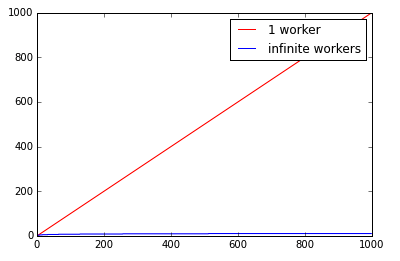
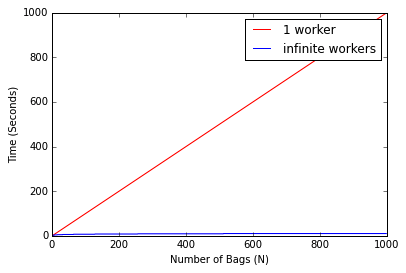
finalizing these files.

Changed region(s): [[0.0, 0.0307, 0.99, 0.9808], [0.24, 0.7356, 0.27, 0.7663]]

diff --git a/HW0/P5/P5.py b/HW0/P5/P5.py
@@ -20,14 +20,12 @@ def infTime(N,t): #wrote a recursive formula to calculate number of seconds it w
     elif N % 2 == 0:
         N = N / 2.0
         t += 1 
-        print "elif"
         return infTime(N,t)
     else:
         N = N-1
         N = N / 2.0
         N += 1
         t += 1
-        print "else"
         return infTime(N,t)
 
         
@@ -42,5 +40,47 @@ for N in num_bags:
 
 plt.plot(num_bags,single_worker,'r-',label='1 worker')
 plt.plot(num_bags,infinite_workers,'b-',label='infinite workers')
+plt.xlabel('Number of Bags (N)')
+plt.ylabel('Time (Seconds)')
 plt.legend()
 
+#tried writing a function that takes communication and bag distribution into account. realized it was no longer needed when i read hte prompt further.
+"""def infTimeOneBag(N,t): #wrote a recursive formula to calculate number of seconds it would take infinite workers to count N bags
+    if  N < 2:
+        return t
+    elif N == 2 & t <= 2:
+        t += 1 #assumes there was only 1 cashier and no need to communicate with others. so only 1  second to count the 2 bags individually
+        return t
+    elif N == 2:
+        t+=2 #2 for communication and for the calculation
+        return t
+    elif N % 2 == 0 & t <= N:
+        N = N / 2.0
+        t += 1 #no communication first step
+        return infTimeOneBag(N,t)
+    elif N % 2 == 0 & t > N:
+        N = N / 2.0
+        t += 2 #communication here between cashiers
+        return infTimeOneBag(N,t)
+    elif N % 2 != 0 & t <= N:
+        N = N-1
+        N = N / 2.0
+        N += 1
+        t += 1 #no communication in first step
+        return infTimeOneBag(N,t)
+    else:
+        N = N-1
+        N = N / 2.0
+        N += 1
+        t += 2 #communication here between cashiers
+        return infTimeOneBag(N,t)
+
+print infTimeOneBag(0,0)
+print infTimeOneBag(1,1)
+print infTimeOneBag(2,2)
+print infTimeOneBag(3,3)
+print infTimeOneBag(4,4)
+print infTimeOneBag(5,5)
+print infTimeOneBag(256,256)
+print infTimeOneBag(256,128)
+print singleWorkerTime(256)"""
